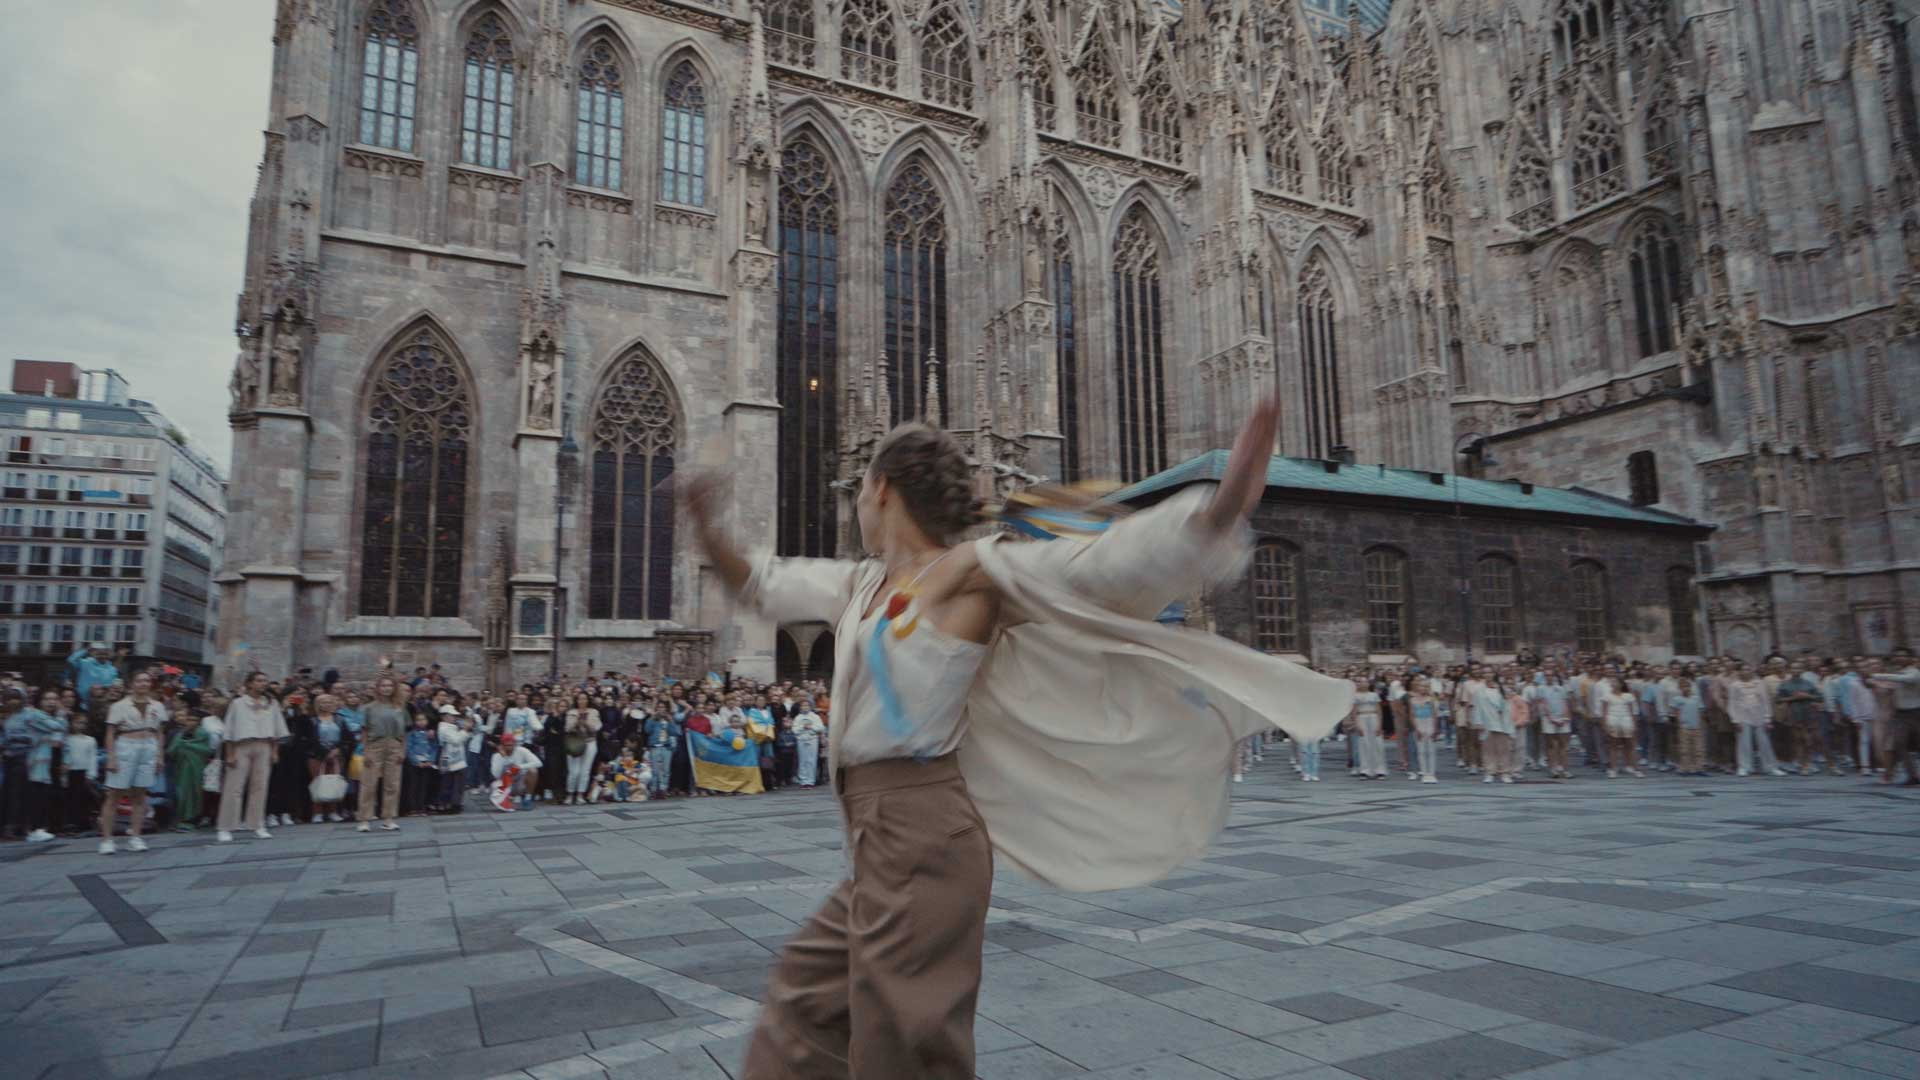
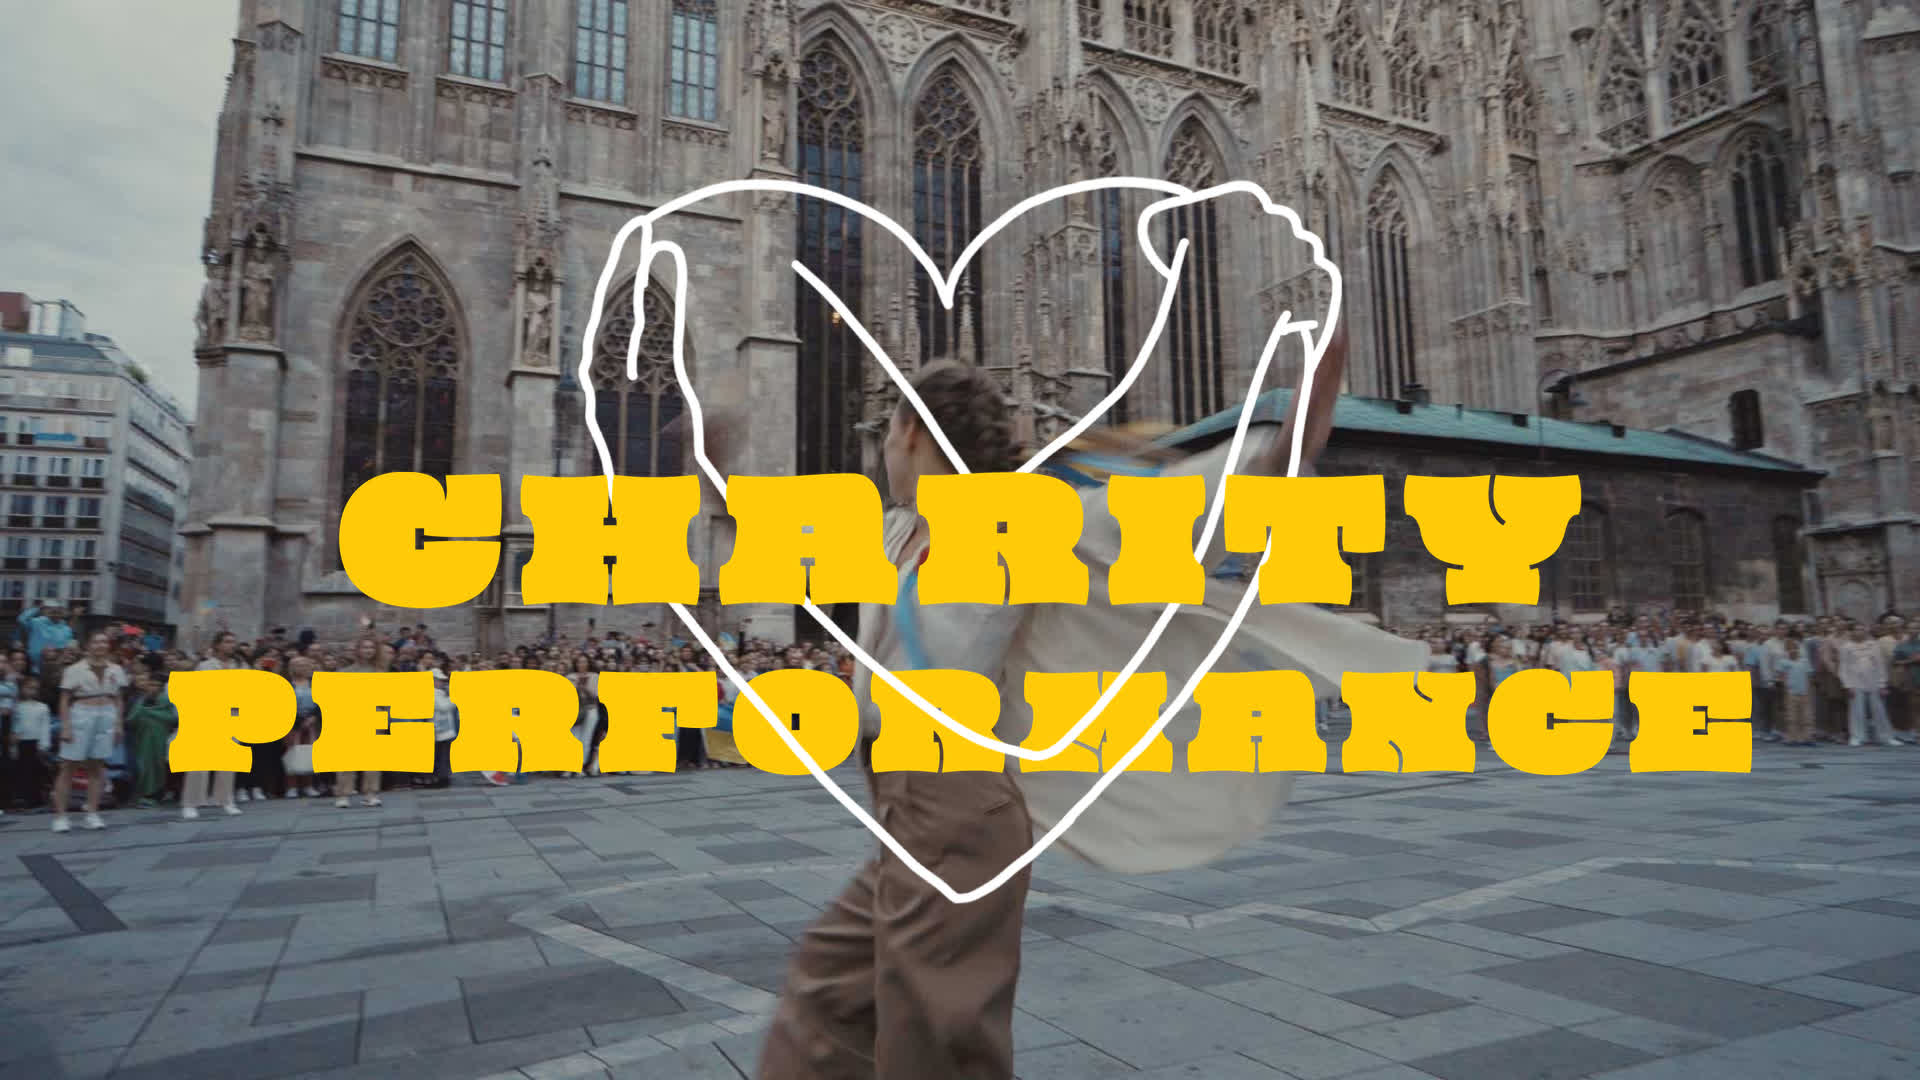
Update image for Viena charity performance

diff --git a/README.md b/README.md
@@ -1,1 +1,6 @@
 # katetiuri.github.io
+
+### How to resize an image
+```
+docker run -v /path/in/local:/path/in/container jrottenberg/ffmpeg -i /path/in/container/image.jpg -vf scale=1920:-1 /path/in/container/image-resized.jpg
+```
